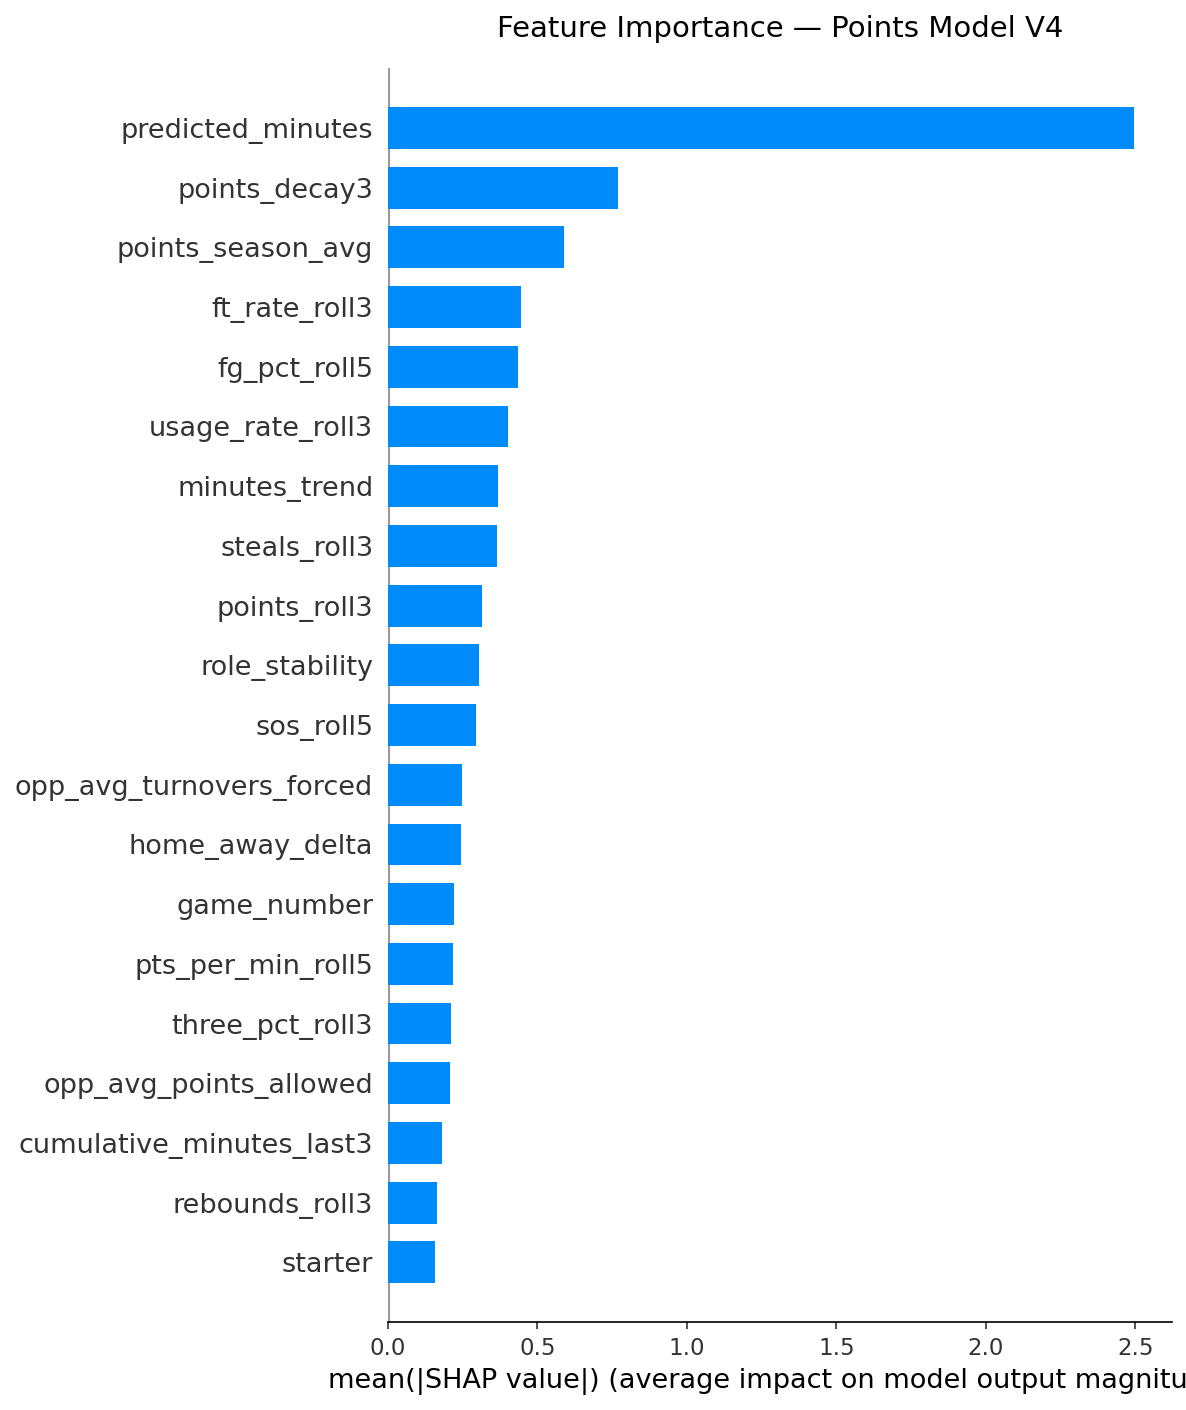
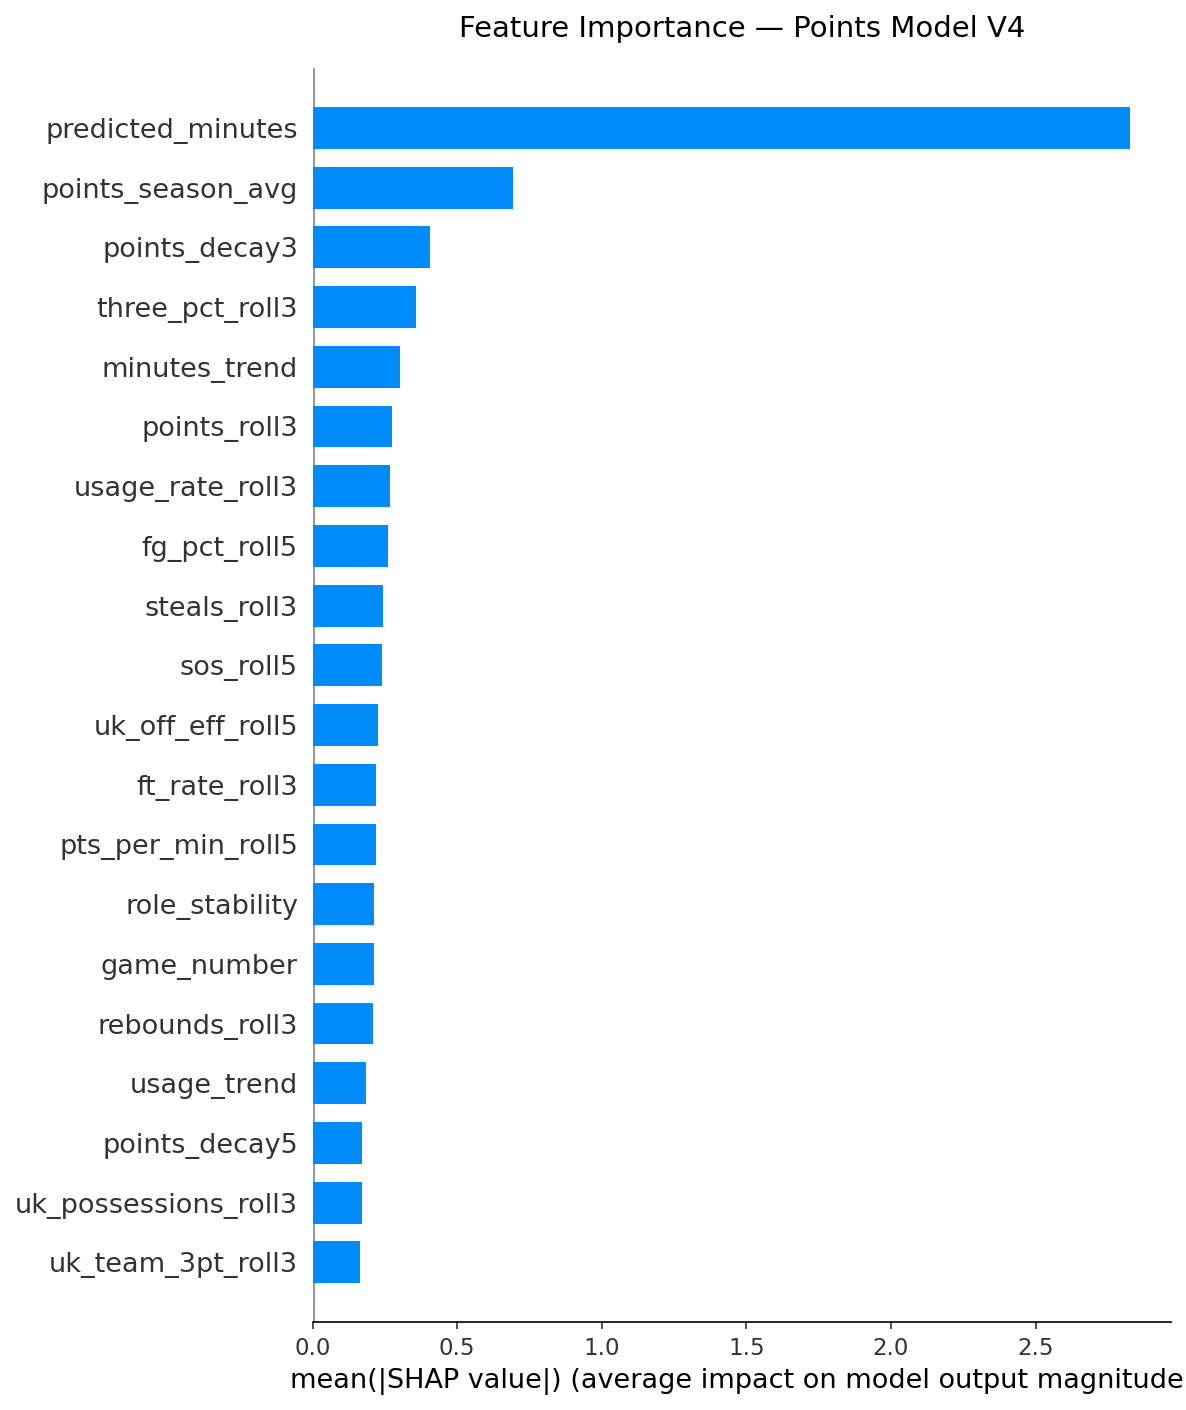
fix(dashboard): auto-detect back-to-back and days rest from games table
Dashboard sidebar now computes days_rest and is_back_to_back at load
time using the same DB query as pre_game.sh, eliminating manual entry.

Changed region(s): [[0.0, 0.0624, 1.0, 0.9986], [0.3744, 0.0, 0.9047, 0.0312], [0.0624, 0.3433, 0.1248, 0.3745]]

diff --git a/src/dashboard/app.py b/src/dashboard/app.py
@@ -413,7 +413,6 @@ with st.sidebar:
     opponents = load_opponents()
 
     # Auto-select next opponent
-    # Auto-select next opponent
     if next_game:
         auto_opponent = next_game.get('away_team') \
             if next_game.get('home_team') == 'Kentucky Wildcats' \
@@ -422,6 +421,28 @@ with st.sidebar:
         auto_is_home  = next_game.get('home_team') == 'Kentucky Wildcats' and not auto_neutral
         auto_venue    = next_game.get('venue_name', '')
         auto_date     = next_game.get('date', '')[:10]
+
+        # Auto-detect days rest and back-to-back from games table
+        try:
+            import sqlite3 as _sq
+            from datetime import datetime as _dt
+            _dconn = _sq.connect(DB_PATH)
+            _prev  = _dconn.execute("""
+                SELECT date FROM games
+                WHERE (home_team = 'Kentucky Wildcats' OR away_team = 'Kentucky Wildcats')
+                  AND date < ?
+                ORDER BY date DESC LIMIT 1
+            """, (auto_date,)).fetchone()
+            _dconn.close()
+            if _prev:
+                _prev_dt  = _dt.strptime(_prev[0][:10], '%Y-%m-%d')
+                _game_dt  = _dt.strptime(auto_date, '%Y-%m-%d')
+                auto_days_rest = max(1, (_game_dt - _prev_dt).days)
+            else:
+                auto_days_rest = 3
+        except Exception:
+            auto_days_rest = 3
+        auto_b2b = auto_days_rest <= 1
 
         # Format date nicely
         from datetime import datetime, timezone
@@ -453,9 +474,11 @@ with st.sidebar:
         </div>
         """, unsafe_allow_html=True)
     else:
-        auto_opponent = opponents[0] if opponents else ''
-        auto_is_home  = False
-        auto_neutral  = False
+        auto_opponent  = opponents[0] if opponents else ''
+        auto_is_home   = False
+        auto_neutral   = False
+        auto_days_rest = 3
+        auto_b2b       = False
 
     default_opp_idx = opponents.index(auto_opponent) \
         if auto_opponent in opponents else 0
@@ -476,8 +499,8 @@ with st.sidebar:
     opp_bpi = st.number_input("Opp BPI", min_value=0.0, max_value=35.0,
                              value=float(auto_bpi), step=0.1)
 
-    days_rest = st.slider("Days Rest", 1, 10, 3)
-    is_b2b    = st.checkbox("Back-to-Back", value=False)
+    days_rest = st.slider("Days Rest", 1, 10, auto_days_rest)
+    is_b2b    = st.checkbox("Back-to-Back", value=auto_b2b)
 
     st.markdown('<hr class="divider">', unsafe_allow_html=True)
     st.markdown('<div class="sidebar-title">⚠ Injuries / Out</div>',
